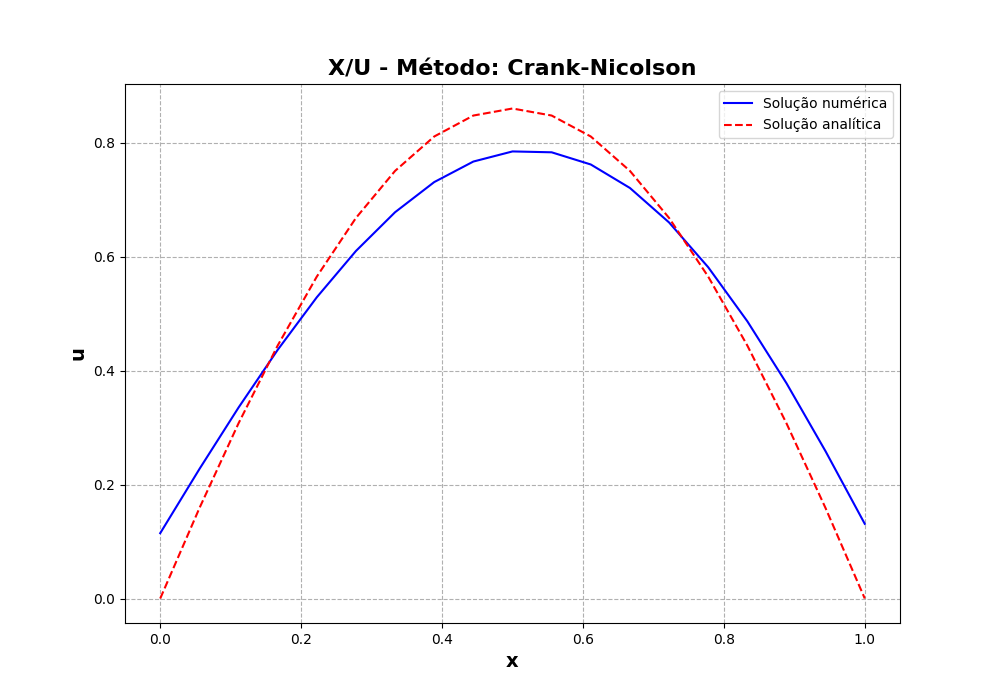
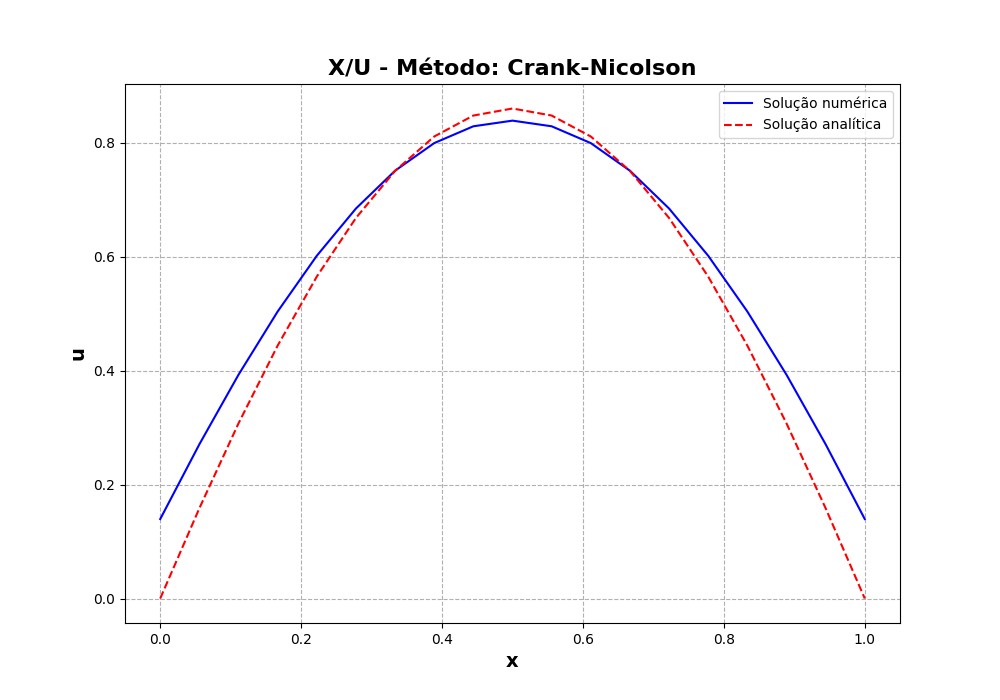
tentando arruamr

diff --git a/03/Metodos.py b/03/Metodos.py
@@ -90,8 +90,12 @@ class Metodos:
         T[-1][-1] = 1 - 2*sigma
 
         U_0 = np.zeros((m, 1))
-        for x in range(0, m):
-            U_0[x][0] = np.sin(np.pi*x*self.h) + x*self.h*(1 - x*self.h)
+
+        x_lin = np.linspace(x[0], x[1], m)
+        U_0[:, 0] = np.sin(np.pi*x_lin) + x_lin*(1 - x_lin)
+
+        # for x in range(0, m):
+        #     U_0[x][0] = np.sin(np.pi*x*self.h) + x*self.h*(1 - x*self.h)
 
         U = []
         U.append(U_0)
@@ -101,7 +105,7 @@ class Metodos:
 
         for i in range(1, m_linha):
             aux = np.dot(T, U[i-1])
-            # aux = aux + m_2
+            aux = aux + m_2*k
             U.append(aux)
 
         U = np.array(U)
@@ -155,16 +159,25 @@ class Metodos:
         S[-1][-1] = 1 - sigma
 
         U_0 = np.zeros((m, 1))
-        for x in range(0, m):
-            U_0[x][0] = np.sin(np.pi*x*self.h) + x*self.h*(1 - x*self.h)
+
+        x_lin = np.linspace(x[0], x[1], m)
+        U_0[:, 0] = np.sin(np.pi*x_lin) + x_lin*(1 - x_lin)
+
+        # for x in range(0, m):
+        #     U_0[x][0] = np.sin(np.pi*x*self.h) + x*self.h*(1 - x*self.h)
 
         U = []
         U.append(U_0)
+
+        # matriz coluna de 2
+        m_2 = np.ones((m, 1))*2
 
         for i in range(1, m_linha):
             aux = np.dot(S, U[i - 1])
 
             aux2 = np.linalg.solve(T, aux)
+
+            aux2 = aux2 + m_2*k
             U.append(aux2)
 
         U = np.array(U)
@@ -200,7 +213,6 @@ class Metodos:
         if not os.path.exists('resultados/solucao_numerica'):
             os.makedirs('resultados/solucao_numerica')
         plt.savefig('resultados/solucao_numerica/' + nome + '.png')
-
         plt.close()
 
     def comparacao(self, x, h, k, nome):
